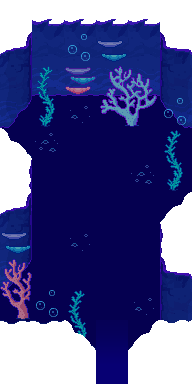
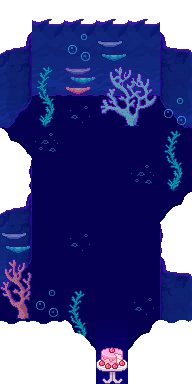
A sprite outside the image is skipped, not stacked in the corner
Re-cutting Sweetheart's Castle for HEAVEN and HELL took the cake off two
alcoves. The cake is not in map433's render — it is an event sprite 16
composites on afterwards, and the slice had been cut before that step, so
cutting again returned the room without it. Both slices are now back to the
pixel they were.

Putting it back found the reason it was easy to lose. `--sprite` selects across
the *parent* map's whole event list, so asking an alcove for its cake finds all
four of the castle's, and the paste clamped its position to (0, 0) — which
drew the three that belong elsewhere in a pile in the corner of the room,
reporting "4 sprite(s) composited" as though that were the job. A sprite that
lands outside the image is skipped now, and says which tile it was at.

Claude-Session: https://claude.ai/code/session_01K5zeUeZ3Xi33fdXKCWAZDR

Changed region(s): [[0.5, 0.9062, 0.6875, 1.0]]

diff --git a/scripts/16_render_event_sprites.py b/scripts/16_render_event_sprites.py
@@ -222,6 +222,23 @@ def sprite_frame(char_name, index, direction, pattern):
                        bx + (col + 1) * fw, by + (row + 1) * fh))
 
 
+def lands_on(canvas, px, py, w, h, ev, map_id):
+    """False when the sprite would fall outside the image, with a word on it.
+
+    A slice is a window onto its parent, and `--sprite` selects by sheet across
+    the parent's whole event list, so most of what it finds is somewhere else
+    on the map. Clamping the paste to (0, 0) — which is what this used to do —
+    silently stacked every one of them in the top-left corner: asking a
+    Sweetheart's Castle alcove for its cake drew all four of the castle's
+    cakes, three of them in a pile off the edge of the room.
+    """
+    if px + w <= 0 or py + h <= 0 or px >= canvas.width or py >= canvas.height:
+        print(f'  · map{map_id} ev{ev["id"]} "{ev.get("name","")}" is at tile '
+              f'({ev["x"]},{ev["y"]}), outside this image — skipped')
+        return False
+    return True
+
+
 def main():
     args = sys.argv[1:]
     want_events = None
@@ -310,9 +327,11 @@ def main():
                 py = (dy + 1) * TILE - frame.height
                 donor = canvas.crop((px, py, px + frame.width, py + frame.height))
                 ex, ey = ev['x'] - off_x, ev['y'] - off_y
-                canvas.alpha_composite(
-                    donor, (max(0, ex * TILE + TILE // 2 - donor.width // 2),
-                            max(0, (ey + 1) * TILE - donor.height)))
+                px = ex * TILE + TILE // 2 - donor.width // 2
+                py = (ey + 1) * TILE - donor.height
+                if not lands_on(canvas, px, py, donor.width, donor.height, ev, map_id):
+                    continue
+                canvas.alpha_composite(donor, (px, py))
                 drawn += 1
                 print(f'  + map{map_id} ev{ev["id"]} "{ev.get("name","")}" '
                       f'copied from tile ({dx},{dy}) to ({ev["x"]},{ev["y"]})')
@@ -335,7 +354,9 @@ def main():
             else:
                 px = ex * TILE + TILE // 2 - frame.width // 2
                 py = ey * TILE + TILE - frame.height
-            canvas.alpha_composite(frame, (max(0, px), max(0, py)))
+            if not lands_on(canvas, px, py, frame.width, frame.height, ev, map_id):
+                continue
+            canvas.alpha_composite(frame, (px, py))
             drawn += 1
             print(f'  + map{map_id} ev{ev["id"]} "{ev.get("name","")}" '
                   f'{img["characterName"]}[{img.get("characterIndex",0)}] '
